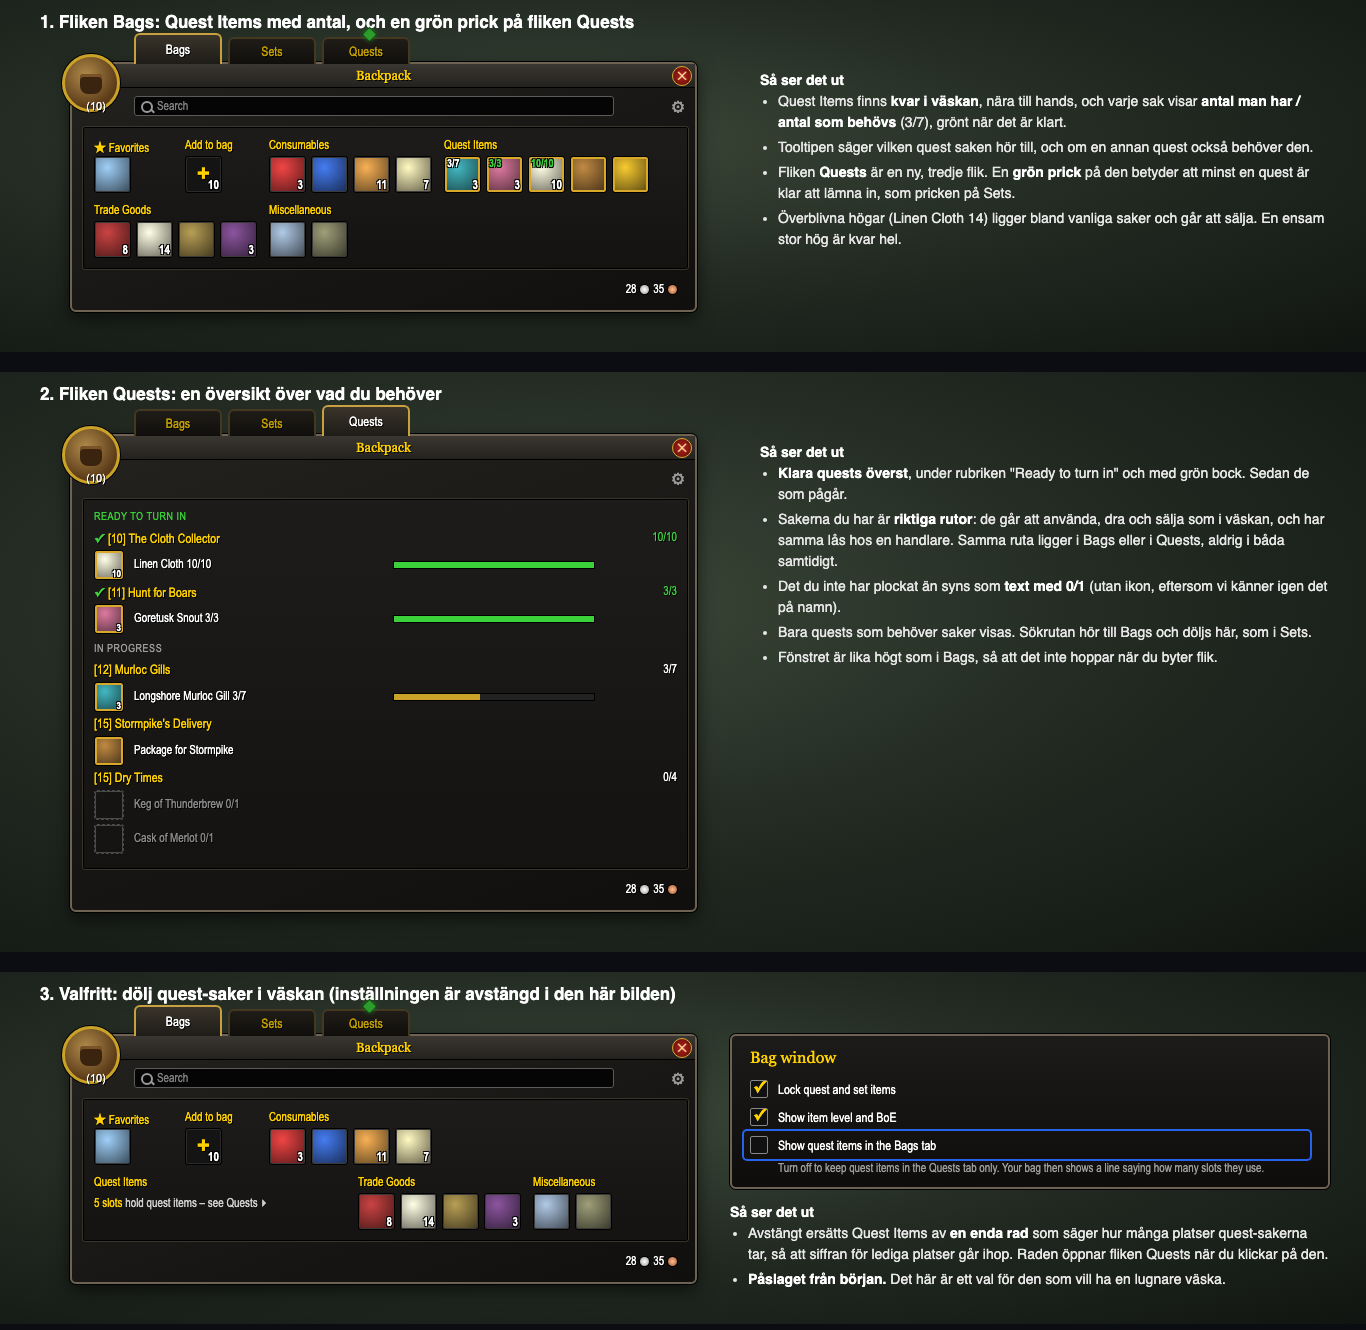
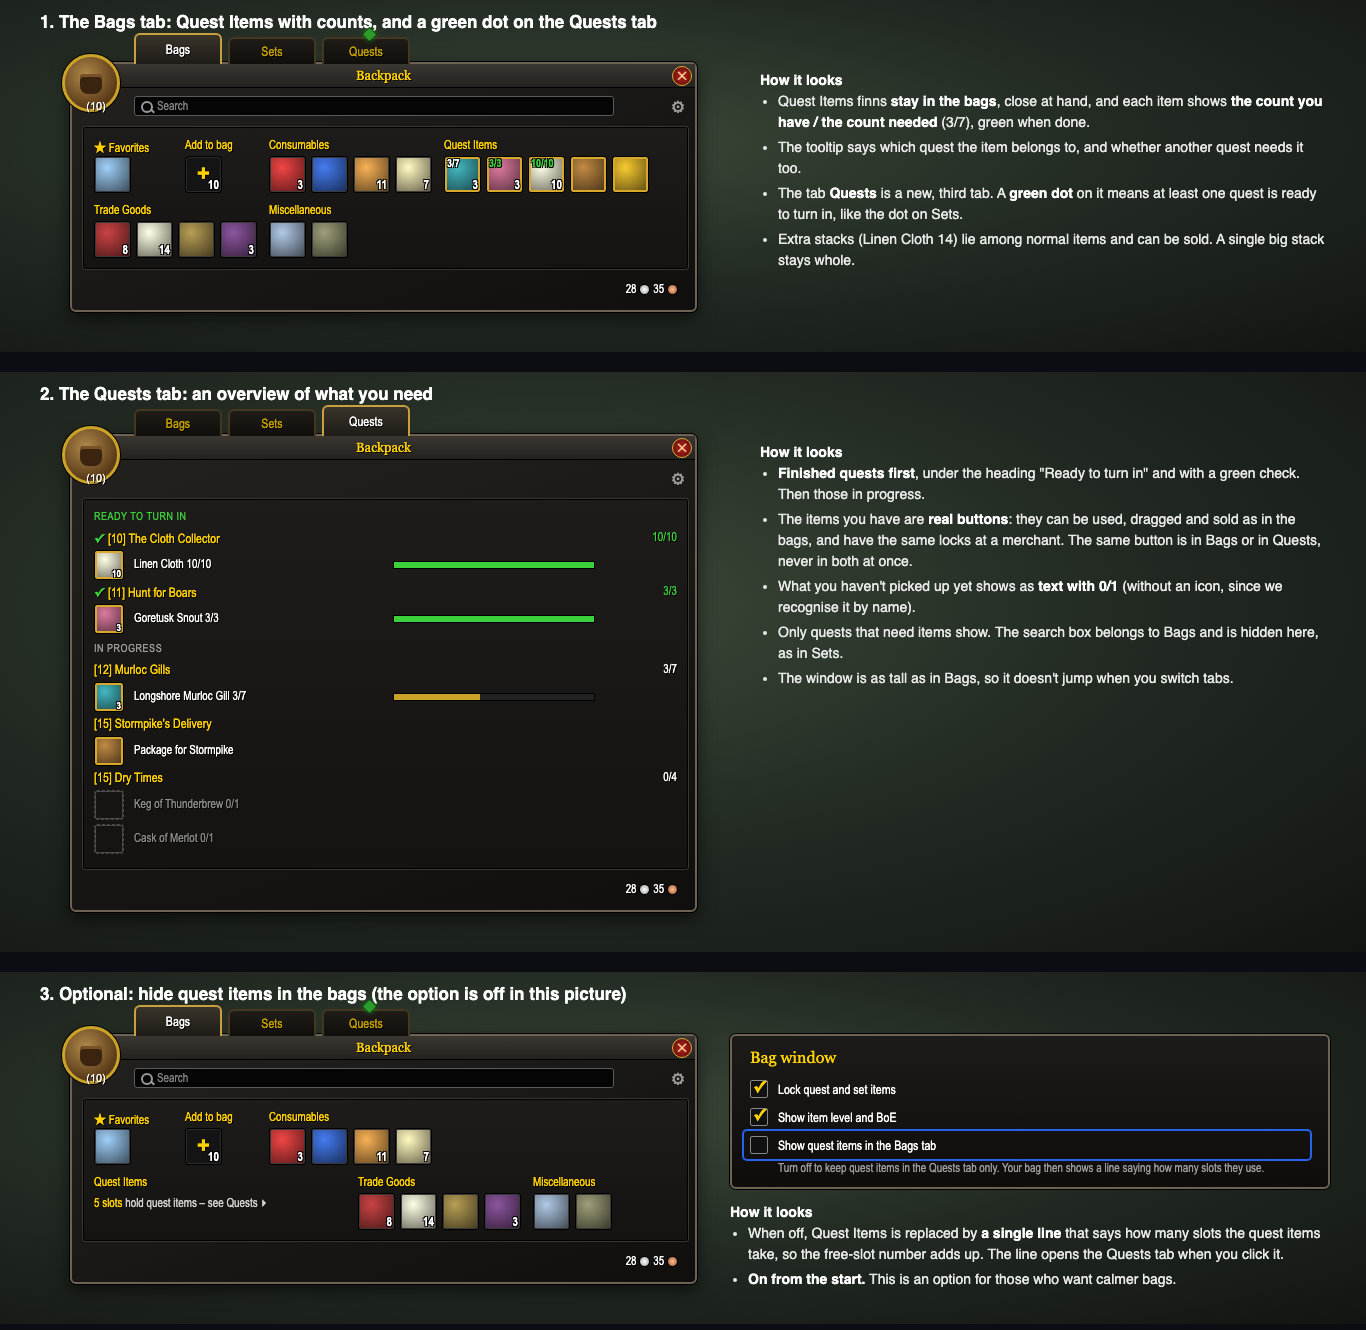
Translate .design/sketch-quests-tab to English (#7)

diff --git a/.design/sketch-quests-tab.html b/.design/sketch-quests-tab.html
@@ -1,13 +1,13 @@
 <!DOCTYPE html>
-<html lang="sv">
+<html lang="en">
 <head>
 <meta charset="utf-8">
-<title>Tidy Pack – skiss: Quests-fliken</title>
+<title>Tidy Pack – sketch: the Quests tab</title>
 <style>
   :root {
-    --wow-gold: #ffd100;       /* NORMAL_FONT_COLOR: rubriker och vanlig text */
-    --wow-white: #ffffff;      /* HIGHLIGHT_FONT_COLOR: framhävd text */
-    --wow-gray: #808080;       /* GRAY_FONT_COLOR: avstängt */
+    --wow-gold: #ffd100;       /* NORMAL_FONT_COLOR: headings and normal text */
+    --wow-white: #ffffff;      /* HIGHLIGHT_FONT_COLOR: highlighted text */
+    --wow-gray: #808080;       /* GRAY_FONT_COLOR: disabled */
     --title-font: "Friz Quadrata", "Friz Quadrata TT", Georgia, "Times New Roman", serif;
     --text-font: "Arial Narrow", "Helvetica Neue", Arial, sans-serif;
   }
@@ -23,18 +23,18 @@
   .controls legend { color: #a8a8a8; padding: 0 4px; }
   .controls label { margin-right: 12px; cursor: pointer; white-space: nowrap; }
 
-  /* Skärmen: 1366 × 768 enheter, skalas ned för att få plats i webbläsaren. */
+  /* The screen: 1366 × 768 units, scaled down to fit in the browser. */
   .viewport { width: 100%; max-width: 1366px; aspect-ratio: 1366 / 768; position: relative; overflow: hidden;
     border-radius: 6px; box-shadow: 0 0 0 1px #2a2f3a; }
   .screen { position: absolute; left: 0; top: 0; width: 1366px; height: 768px; transform-origin: 0 0;
     background: radial-gradient(ellipse at 50% 35%, #3d4a3a 0%, #222a22 45%, #111511 100%); }
 
-  /* Spelets standardgränssnitt, ungefär där det ligger från början. */
+  /* The game's default interface, roughly where it starts. */
   .blizz { position: absolute; border: 1px dashed rgba(255,255,255,.28); border-radius: 4px;
     color: rgba(255,255,255,.45); font: 12px var(--text-font); display: flex; align-items: center;
     justify-content: center; text-align: center; background: rgba(0,0,0,.18); }
 
-  /* Spelets väskfönster: ram med porträtt, titelrad och stängknapp. */
+  /* The game's bag window: frame with portrait, title bar and close button. */
   .bagframe { position: absolute; background: linear-gradient(160deg, #24221f 0%, #171614 60%, #100f0e 100%);
     border: 2px solid #6e6252; border-radius: 6px; box-shadow: 0 0 0 1px #000, 0 6px 18px rgba(0,0,0,.6); }
   .bagframe .titlebar { position: absolute; left: 0; right: 0; top: 0; height: 24px; border-bottom: 1px solid #000;
@@ -50,7 +50,7 @@
     background: radial-gradient(#b22219, #5b0d08); border: 1px solid #d4af37; color: #ffd9a0;
     font: bold 12px/18px Arial, sans-serif; text-align: center; }
 
-  /* Innehållet. Alla lägen räknas från fönstrets övre vänstra hörn. */
+  /* The content. All positions count from the window's top left corner. */
   .abs { position: absolute; }
   .search { height: 20px; border: 1px solid #5a5a5a; border-radius: 3px; background: #050505;
     font: 12px var(--text-font); color: var(--wow-gray); padding: 1px 6px 0 22px; line-height: 17px; }
@@ -58,17 +58,17 @@
     border: 2px solid #9a9a9a; border-radius: 50%; }
   .search::after { content: ""; position: absolute; left: 15px; top: 13px; width: 5px; height: 2px;
     background: #9a9a9a; transform: rotate(45deg); }
-  /* ★-knappen: svag tills du håller en sak. */
+  /* The ★ button: faint until you hold an item. */
   .starbutton { width: 26px; height: 26px; color: var(--wow-gold); font: 22px/26px Arial, sans-serif;
     text-align: center; text-shadow: 0 0 4px #ffb000, 1px 1px 0 #000; }
   .starbutton.idle { opacity: .35; }
   .header { font: 12px var(--text-font); color: var(--wow-gold); text-shadow: 1px 1px 0 #000; white-space: nowrap; }
   .header .star { color: var(--wow-gold); }
-  /* Förslag: flikar ovanför fönstret (spelets PanelTopTabButtonTemplate) och fliken Sets. */
+  /* Proposal: tabs above the window (the game's PanelTopTabButtonTemplate) and the Sets tab. */
   .toptab { position: absolute; height: 26px; width: 84px; display: flex; align-items: center; justify-content: center;
     font: 12px var(--text-font); color: var(--wow-gold); text-shadow: 1px 1px 0 #000; border: 2px solid #5a4a2a;
     border-bottom: none; border-radius: 6px 6px 0 0; background: linear-gradient(#2a2620, #15130f); }
-  /* Flikarna som i Forevers trollbok, men ovanpå fönstrets kant; den valda högre och ljusare. */
+  /* The tabs as in Forever's spellbook, but on top of the window's edge; the chosen one taller and lighter. */
   .toptab { height: 27px; width: 88px; font-size: 13px; filter: brightness(0.75); z-index: 3; }
   .toptab.active { height: 31px; color: #fff; background: linear-gradient(#3a342a, #1e1c18); border-color: #c8a040; filter: none; }
   .setrow { position: absolute; height: 44px; border-radius: 3px; }
@@ -83,7 +83,7 @@
   .setrow .mini.gone { background: #222; box-shadow: inset 0 0 0 1px #555; }
   .setrow .worn.warnright { color: #ff9a2a; }
   .setshint { position: absolute; font: 11px var(--text-font); color: #9a9a9a; }
-  /* Förslag: specialväskorna längst ned, under en skiljelinje som i spelets egna fönster. */
+  /* Proposal: the special bags at the bottom, under a divider as in the game's own windows. */
   .divider { height: 1px; background: linear-gradient(90deg, transparent, #8a7440 15%, #8a7440 85%, transparent); }
   .header .bagicon { display: inline-block; width: 12px; height: 12px; margin-right: 4px; vertical-align: -2px;
     border-radius: 2px; background: linear-gradient(135deg, #a07040, #4a2a10); box-shadow: 0 0 0 1px #000; }
@@ -94,8 +94,8 @@
   .slot .count { right: 2px; bottom: 0; font-size: 12px; }
   .slot .ilvl { left: 2px; top: 0; }
   .slot .boe { left: 2px; bottom: 0; }
-  .slot.q2 { box-shadow: inset 0 0 0 2px #1eff00; }   /* ovanlig: grön ram */
-  .slot.q3 { box-shadow: inset 0 0 0 2px #0070dd; }   /* sällsynt: blå ram */
+  .slot.q2 { box-shadow: inset 0 0 0 2px #1eff00; }   /* uncommon: green border */
+  .slot.q3 { box-shadow: inset 0 0 0 2px #0070dd; }   /* rare: blue border */
   .slot.junk::after { content: ""; position: absolute; left: 2px; top: 2px; width: 9px; height: 9px;
     border-radius: 50%; background: radial-gradient(#e8d070, #8a6a10); box-shadow: 0 0 0 1px #000; }
   .slot.quest::after { content: "!"; position: absolute; left: 3px; top: 0; font: bold 14px Arial, sans-serif;
@@ -107,7 +107,7 @@
   .slot.empty { background: #141414; box-shadow: inset 0 0 0 1px #2a2a2a; }
   .slot.cursor { outline: 3px solid #4fc3ff; outline-offset: 2px; }
   .slot.disabled { filter: grayscale(.8) brightness(.55); }
-  /* Låset: en liten bygel och kropp uppe till höger. Syns bara hos en handlare. */
+  /* The lock: a small shackle and body at the top right. Shows only at a merchant. */
   .lock { position: absolute; right: 1px; top: 1px; width: 11px; height: 13px; }
   .lock::before { content: ""; position: absolute; left: 2px; top: 0; width: 7px; height: 7px;
     border: 2px solid #e8d070; border-bottom: none; border-radius: 4px 4px 0 0; }
@@ -119,14 +119,12 @@
   .coin.gold { background: radial-gradient(#fff2a0, #c9a227); }
   .coin.silver { background: radial-gradient(#ffffff, #9a9a9a); }
   .coin.copper { background: radial-gradient(#ffc090, #a0522d); }
-  /* Spelets röda knapp (UIPanelButtonTemplate). */
+  /* The game's red button (UIPanelButtonTemplate). */
   .redbutton { position: absolute; height: 22px; padding: 0 12px; border-radius: 3px; border: 1px solid #000;
     background: linear-gradient(#a8261a, #5a0c06); box-shadow: inset 0 0 0 1px #d4af37;
     font: 12px/20px var(--title-font); color: var(--wow-gold); text-shadow: 1px 1px 0 #000; white-space: nowrap; }
 
-  /* Förslag: spelets ruta för tips (mallen HelpTipTemplate, som ärver GlowBoxTemplate). Mörk ruta
-     med gul glöd, vit text och en gul pil mot det tipset handlar om. 226 enheter bred, som
-     HelpTip.width i spelets kod. */
+  /* Proposal: the game's tip box (the template HelpTipTemplate, which inherits GlowBoxTemplate). A dark box with a yellow glow, white text and a yellow arrow towards what the tip is about. 226 units wide, like HelpTip.width in the game's code. */
   .helptip { position: absolute; width: 226px; padding: 14px 16px 12px; background: rgba(0,0,0,.9);
     border: 1px solid #ffd100; border-radius: 3px; color: var(--wow-white); font: 13px/1.35 var(--text-font);
     box-shadow: 0 0 7px 2px rgba(255,190,0,.8), inset 0 0 8px rgba(255,190,0,.3); z-index: 5; }
@@ -135,8 +133,7 @@
   .tiparrow { position: absolute; width: 0; height: 0; z-index: 6; filter: drop-shadow(0 0 3px #ffb000); }
   .tiparrow.down { border-left: 11px solid transparent; border-right: 11px solid transparent; border-top: 16px solid #ffd100; }
   .tiparrow.right { border-top: 11px solid transparent; border-bottom: 11px solid transparent; border-left: 16px solid #ffd100; }
-  /* Handkontrollens knappar. Spelet visar symbolerna för just den kontroll man har (Xbox,
-     PlayStation eller Switch); här ritas Xbox-varianten ungefär. */
+  /* The controller's buttons. The game shows the symbols for the controller you have (Xbox, PlayStation or Switch); here the Xbox variant is drawn roughly. */
   .pad { display: inline-block; min-width: 17px; height: 17px; padding: 0 3px; border-radius: 9px; margin: 0 1px;
     font: bold 10px/17px Arial, sans-serif; color: #fff; text-align: center; vertical-align: -3px;
     box-shadow: 0 0 0 1px #000; text-shadow: none; }
@@ -145,9 +142,7 @@
   .pad.lb, .pad.rb { background: #3c3c3c; border-radius: 4px; }
   #tipNote { min-height: 0; }
 
-  /* Förslag: skräpknappen bredvid ★ och märket på saker du markerat som skräp är spelets eget
-     skräpmynt (bags-junkcoin, som spelet visar på grå saker hos en handlare). Saker som en quest
-     behöver senare får kartans gula utropstecken för quests du kan ta (QuestNormal). */
+  /* Proposal: the junk button next to ★ and the mark on items you marked as junk are the game's own junk coin (bags-junkcoin, which the game shows on grey items at a merchant). Items a quest needs later get the map's yellow exclamation mark for quests you can take (QuestNormal). */
   .trashbutton { width: 26px; height: 26px; }
   .trashbutton.idle { opacity: .35; }
   .trashbutton::before { content: ""; position: absolute; left: 4px; top: 4px; width: 18px; height: 18px; border-radius: 50%;
@@ -157,12 +152,12 @@
   .slot .later { position: absolute; right: 3px; top: -1px; font: bold 14px Arial, sans-serif; color: #ffd100;
     text-shadow: 1px 1px 0 #000, -1px 0 0 #000; }
   .slot .later::before { content: "!"; }
-  /* Spelets tooltip, ungefär. */
+  /* The game's tooltip, roughly. */
   .gametip { position: absolute; max-width: 280px; padding: 6px 9px; background: rgba(6,8,22,.95);
     border: 1px solid #9a9a9a; border-radius: 4px; font: 12px/1.45 var(--text-font); color: #fff; z-index: 7; }
   .gametip .gold { color: var(--wow-gold); }
   .gametip .white { font-size: 13px; }
-  /* Spelets lootfönster, ungefär, och Tidy Packs fråga under det. */
+  /* The game's loot window, roughly, and Tidy Pack's question under it. */
   .lootframe { position: absolute; width: 200px; background: linear-gradient(#2a2723, #151412);
     border: 2px solid #6e6252; border-radius: 5px; box-shadow: 0 0 0 1px #000, 0 6px 18px rgba(0,0,0,.6); }
   .lootframe .ltitle { font: 13px/24px var(--title-font); color: var(--wow-gold); text-align: center;
@@ -170,7 +165,7 @@
   .lootrow { display: flex; align-items: center; gap: 7px; padding: 5px 7px; font: 12px var(--text-font); color: #fff; }
   .lootrow .licon { width: 30px; height: 30px; border-radius: 3px; border: 1px solid #000; flex: none; }
   .lootrow.cursor .licon { outline: 3px solid #4fc3ff; outline-offset: 1px; }
-  /* Samma panel som spelets lootfönster (DefaultPanelFlatTemplate), lika bred och direkt under det. */
+  /* The same panel as the game's loot window (DefaultPanelFlatTemplate), as wide and right under it. */
   .makeroom { position: absolute; width: 200px; background: linear-gradient(#2a2723, #151412);
     border: 2px solid #6e6252; border-radius: 5px; box-shadow: 0 0 0 1px #000, 0 6px 18px rgba(0,0,0,.6);
     font: 12px/1.4 var(--text-font); color: #fff; z-index: 6; }
@@ -184,7 +179,7 @@
   .errortext { position: absolute; left: 0; right: 0; top: 150px; text-align: center; color: #ff2a2a;
     font: bold 17px var(--title-font); text-shadow: 1px 1px 0 #000, 0 0 4px #000; }
 
-  /* Förslag: spelets egen meny (Menu-systemet, MenuUtil.CreateContextMenu), ungefär. */
+  /* Proposal: the game's own menu (the Menu system, MenuUtil.CreateContextMenu), roughly. */
   .gamemenu { position: absolute; min-width: 190px; padding: 6px 0; background: rgba(8,8,8,.96);
     border: 1px solid #6e6252; border-radius: 4px; box-shadow: 0 0 0 1px #000, 0 4px 12px rgba(0,0,0,.6);
     font: 13px/1.7 var(--text-font); color: #fff; z-index: 8; }
@@ -192,7 +187,7 @@
   .gamemenu .mitem { padding: 0 14px; }
   .gamemenu .mitem.focus { background: rgba(255,209,0,.18); }
   .gamemenu .sep { height: 1px; margin: 4px 10px; background: #444; }
-  /* Förslag: spelets inställningsfönster (Options → AddOns), ungefär. */
+  /* Proposal: the game's options window (Options → AddOns), roughly. */
   .options { position: absolute; left: 233px; top: 70px; width: 900px; height: 610px; z-index: 9;
     background: linear-gradient(#1c1b19, #0e0d0c); border: 2px solid #6e6252; border-radius: 6px;
     box-shadow: 0 0 0 1px #000, 0 8px 24px rgba(0,0,0,.7); font: 13px var(--text-font); color: #fff; }
@@ -222,7 +217,7 @@
     color: #8a8a8a; font-size: 12px; line-height: 16px; }
   .options .redbutton { position: relative; }
 
-  /* Förklaringar till skissen. */
+  /* Explanations for the sketch. */
   .callout { position: absolute; font: 12px -apple-system, "Segoe UI", sans-serif; color: #fff;
     background: #2563eb; padding: 2px 6px; border-radius: 4px; white-space: nowrap; }
   ul { max-width: 900px; padding-left: 20px; }
@@ -299,37 +294,35 @@
 </head>
 <body>
 
-<div class="card" style="height: 470px;"><h2>1. Fliken Bags: Quest Items med antal, och en grön prick på fliken Quests</h2>
+<div class="card" style="height: 470px;"><h2>1. The Bags tab: Quest Items with counts, and a green dot on the Quests tab</h2>
   <div class="bagframe" id="bag1" style="left: 70px; top: 62px; width: 628px; height: 400px;"></div>
   <div class="side" style="left: 760px; top: 70px; width: 570px;">
-    <b>Så ser det ut</b>
+    <b>How it looks</b>
     <ul>
-      <li>Quest Items finns <b>kvar i väskan</b>, nära till hands, och varje sak visar <b>antal man har / antal som behövs</b>
-        (3/7), grönt när det är klart.</li>
-      <li>Tooltipen säger vilken quest saken hör till, och om en annan quest också behöver den.</li>
-      <li>Fliken <b>Quests</b> är en ny, tredje flik. En <b>grön prick</b> på den betyder att minst en quest är klar att
-        lämna in, som pricken på Sets.</li>
-      <li>Överblivna högar (Linen Cloth 14) ligger bland vanliga saker och går att sälja. En ensam stor hög är kvar hel.</li>
+      <li>Quest Items finns <b>stay in the bags</b>, close at hand, and each item shows <b>the count you have / the count needed</b>
+        (3/7), green when done.</li>
+      <li>The tooltip says which quest the item belongs to, and whether another quest needs it too.</li>
+      <li>The tab <b>Quests</b> is a new, third tab. A <b>green dot</b> on it means at least one quest is ready to turn in, like the dot on Sets.</li>
+      <li>Extra stacks (Linen Cloth 14) lie among normal items and can be sold. A single big stack stays whole.</li>
     </ul>
   </div>
 </div>
 
-<div class="card" style="height: 620px;"><h2>2. Fliken Quests: en översikt över vad du behöver</h2>
+<div class="card" style="height: 620px;"><h2>2. The Quests tab: an overview of what you need</h2>
   <div class="bagframe" id="bag2" style="left: 70px; top: 62px; width: 628px; height: 400px;"></div>
   <div class="side" style="left: 760px; top: 70px; width: 570px;">
-    <b>Så ser det ut</b>
+    <b>How it looks</b>
     <ul>
-      <li><b>Klara quests överst</b>, under rubriken "Ready to turn in" och med grön bock. Sedan de som pågår.</li>
-      <li>Sakerna du har är <b>riktiga rutor</b>: de går att använda, dra och sälja som i väskan, och har samma
-        lås hos en handlare. Samma ruta ligger i Bags eller i Quests, aldrig i båda samtidigt.</li>
-      <li>Det du inte har plockat än syns som <b>text med 0/1</b> (utan ikon, eftersom vi känner igen det på namn).</li>
-      <li>Bara quests som behöver saker visas. Sökrutan hör till Bags och döljs här, som i Sets.</li>
-      <li>Fönstret är lika högt som i Bags, så att det inte hoppar när du byter flik.</li>
+      <li><b>Finished quests first</b>, under the heading "Ready to turn in" and with a green check. Then those in progress.</li>
+      <li>The items you have are <b>real buttons</b>: they can be used, dragged and sold as in the bags, and have the same locks at a merchant. The same button is in Bags or in Quests, never in both at once.</li>
+      <li>What you haven't picked up yet shows as <b>text with 0/1</b> (without an icon, since we recognise it by name).</li>
+      <li>Only quests that need items show. The search box belongs to Bags and is hidden here, as in Sets.</li>
+      <li>The window is as tall as in Bags, so it doesn't jump when you switch tabs.</li>
     </ul>
   </div>
 </div>
 
-<div class="card" style="height: 470px;"><h2>3. Valfritt: dölj quest-saker i väskan (inställningen är avstängd i den här bilden)</h2>
+<div class="card" style="height: 470px;"><h2>3. Optional: hide quest items in the bags (the option is off in this picture)</h2>
   <div class="bagframe" id="bag3" style="left: 70px; top: 62px; width: 628px; height: 400px;"></div>
   <div class="opt" style="left: 730px; top: 62px; width: 600px;">
     <h3>Bag window</h3>
@@ -340,11 +333,10 @@
       Your bag then shows a line saying how many slots they use.</div>
   </div>
   <div class="side" style="left: 730px; top: 230px; width: 600px;">
-    <b>Så ser det ut</b>
+    <b>How it looks</b>
     <ul>
-      <li>Avstängt ersätts Quest Items av <b>en enda rad</b> som säger hur många platser quest-sakerna tar, så att
-        siffran för lediga platser går ihop. Raden öppnar fliken Quests när du klickar på den.</li>
-      <li><b>Påslaget från början.</b> Det här är ett val för den som vill ha en lugnare väska.</li>
+      <li>When off, Quest Items is replaced by <b>a single line</b> that says how many slots the quest items take, so the free-slot number adds up. The line opens the Quests tab when you click it.</li>
+      <li><b>On from the start.</b> This is an option for those who want calmer bags.</li>
     </ul>
   </div>
 </div>
@@ -425,12 +417,12 @@ drawBag(document.getElementById('bag1'), base.concat([
     { c: GILL, count: 3, label: '3/7', quest: true }, { c: SNOUT, count: 3, label: '3/3', done: true, quest: true },
     { c: LINEN, count: 10, label: '10/10', done: true, quest: true }, { c: PACKAGE, quest: true }, { c: KEY, quest: true } ] },
 ]).concat(tail), { dot: true });
-// 3: quest-saker dolda i väskan
+// 3: quest items hidden in the bags
 drawBag(document.getElementById('bag3'), base.concat([
   { h: 'Quest Items', note: '<b>5 slots</b> hold quest items – see Quests ▸' },
 ]).concat(tail), { dot: true });
 
-// 2: fliken Quests
+// 2: the Quests tab
 (function () {
   const el = document.getElementById('bag2');
   drawFrame(el, 'Quests', ['Bags', 'Sets', 'Quests'], null);
